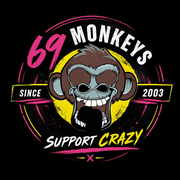
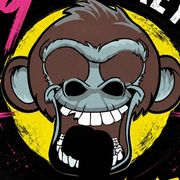
Icono de pantalla de inicio más grande (cara del mono) + manifest

diff --git a/prueba-gratis.html b/prueba-gratis.html
@@ -7,6 +7,7 @@
 <link rel="icon" href="favicon.ico" sizes="any">
 <link rel="icon" type="image/png" sizes="192x192" href="img/favicon-192.png">
 <link rel="apple-touch-icon" href="img/apple-touch-icon.png">
+<link rel="manifest" href="site.webmanifest">
 <meta name="description" content="Ven a probar 69 Monos: te regalamos 2 días gratis para entrenar boxeo, muay thai, MMA, BJJ, lucha y más en Cornellà de Llobregat.">
 <link rel="stylesheet" href="https://fonts.googleapis.com/css2?family=Anton&family=Permanent+Marker&family=Work+Sans:wght@400;500;600;700&display=swap">
 <link rel="stylesheet" href="css/estilos.css?v=20261103h">

diff --git a/precios.html b/precios.html
@@ -7,6 +7,7 @@
 <link rel="icon" href="favicon.ico" sizes="any">
 <link rel="icon" type="image/png" sizes="192x192" href="img/favicon-192.png">
 <link rel="apple-touch-icon" href="img/apple-touch-icon.png">
+<link rel="manifest" href="site.webmanifest">
 <meta name="description" content="Tarifas de 69 Monkeys en Cornellà de Llobregat: cuota fija con todas las clases que quieras en los dos locales.">
 <link rel="stylesheet" href="https://fonts.googleapis.com/css2?family=Anton&family=Permanent+Marker&family=Work+Sans:wght@400;500;600;700&display=swap">
 <link rel="stylesheet" href="css/estilos.css?v=20261103h">

diff --git a/zona-kids.html b/zona-kids.html
@@ -7,6 +7,7 @@
 <link rel="icon" href="favicon.ico" sizes="any">
 <link rel="icon" type="image/png" sizes="192x192" href="img/favicon-192.png">
 <link rel="apple-touch-icon" href="img/apple-touch-icon.png">
+<link rel="manifest" href="site.webmanifest">
 <meta name="description" content="Kids MMA en 69 Monkeys: escuela pionera de MMA infantil desde 2003, de 4 a 16 años, con programa anti-bullying.">
 <link rel="stylesheet" href="https://fonts.googleapis.com/css2?family=Anton&family=Permanent+Marker&family=Work+Sans:wght@400;500;600;700&display=swap">
 <link rel="stylesheet" href="css/estilos.css?v=20261103h">

diff --git a/horarios.html b/horarios.html
@@ -7,6 +7,7 @@
 <link rel="icon" href="favicon.ico" sizes="any">
 <link rel="icon" type="image/png" sizes="192x192" href="img/favicon-192.png">
 <link rel="apple-touch-icon" href="img/apple-touch-icon.png">
+<link rel="manifest" href="site.webmanifest">
 <meta name="description" content="Horarios de clases de 69 Monkeys en Cornellà de Llobregat. Marca tu rutina y descárgala en PDF.">
 <link rel="stylesheet" href="https://fonts.googleapis.com/css2?family=Anton&family=Permanent+Marker&family=Work+Sans:wght@400;500;600;700&display=swap">
 <link rel="stylesheet" href="css/estilos.css?v=20261103h">

diff --git a/historia-contacto.html b/historia-contacto.html
@@ -7,6 +7,7 @@
 <link rel="icon" href="favicon.ico" sizes="any">
 <link rel="icon" type="image/png" sizes="192x192" href="img/favicon-192.png">
 <link rel="apple-touch-icon" href="img/apple-touch-icon.png">
+<link rel="manifest" href="site.webmanifest">
 <meta name="description" content="La historia de 69 Monos desde 2003 y cómo contactar con nosotros en Cornellà de Llobregat.">
 <link rel="stylesheet" href="https://fonts.googleapis.com/css2?family=Anton&family=Permanent+Marker&family=Work+Sans:wght@400;500;600;700&display=swap">
 <link rel="stylesheet" href="css/estilos.css?v=20261103h">

diff --git a/index.html b/index.html
@@ -7,6 +7,7 @@
 <link rel="icon" href="favicon.ico" sizes="any">
 <link rel="icon" type="image/png" sizes="192x192" href="img/favicon-192.png">
 <link rel="apple-touch-icon" href="img/apple-touch-icon.png">
+<link rel="manifest" href="site.webmanifest">
 <link rel="stylesheet" href="https://fonts.googleapis.com/css2?family=Anton&family=Permanent+Marker&family=Work+Sans:wght@400;500;600;700&display=swap">
 <link rel="stylesheet" href="css/estilos.css?v=20261103h">
 </head>
